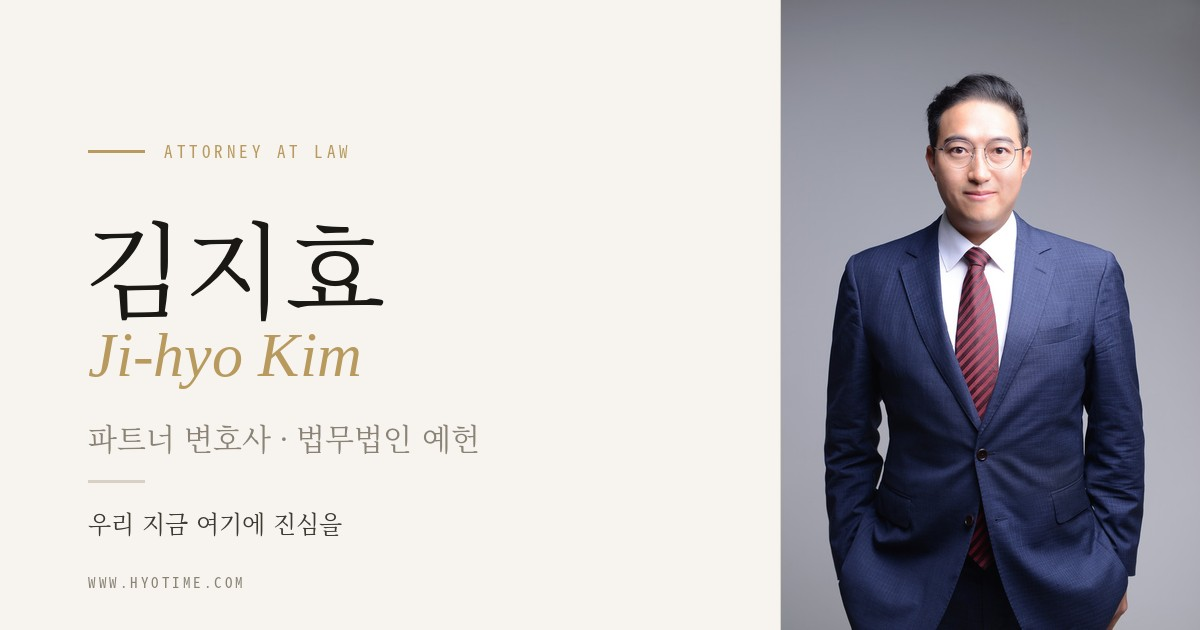
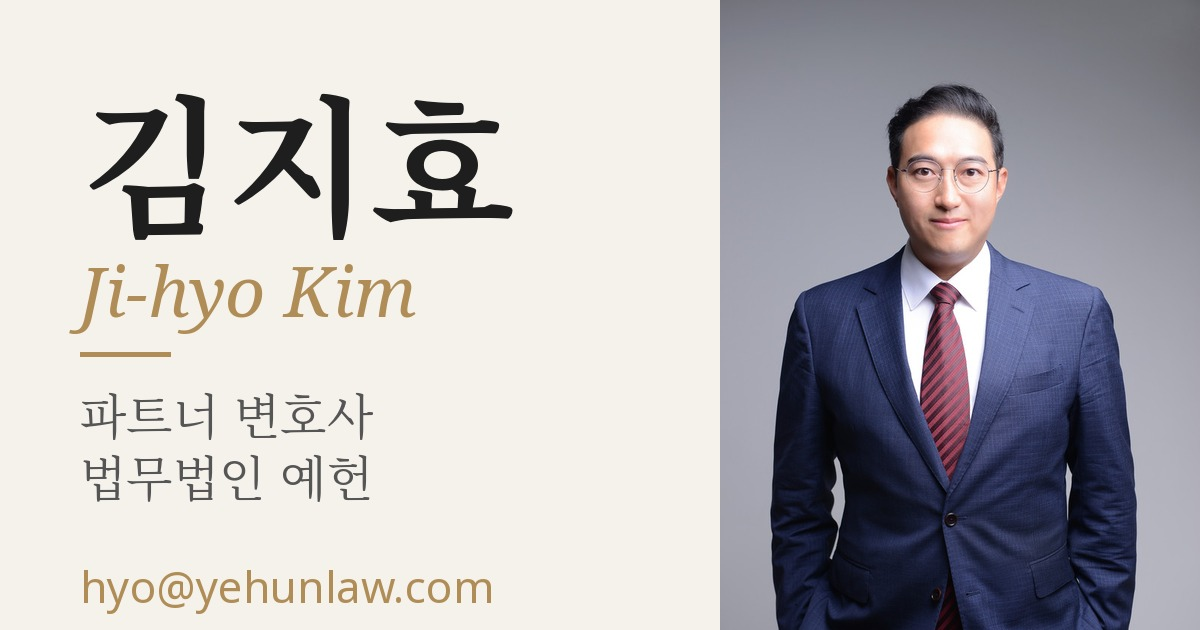
공유 미리보기 이미지를 교체하고 캐시 쿼리를 붙임 (#9)
og-image.jpg를 새 1200x630 JPEG로 바꾸고, og:image와 twitter:image에 ?v=20261120을 붙여 카카오톡 등이 다시 가져가게 한다.

Changed region(s): [[0.5858, 0.0, 0.9558, 1.0], [0.0617, 0.1508, 0.4317, 0.8444], [0.0617, 0.9048, 0.4008, 0.9651]]

diff --git a/index.html b/index.html
@@ -18,7 +18,7 @@
 <meta property="og:title" content="김지효 변호사 | Attorney Kim Ji-hyo">
 <meta property="og:description" content="법무법인 예헌 파트너 변호사. 건설·부동산, 산업안전(중대재해), 인사·노무, 공정거래·하도급, 기업자문·M&A.">
 <meta property="og:url" content="https://www.hyotime.com/">
-<meta property="og:image" content="https://www.hyotime.com/og-image.jpg">
+<meta property="og:image" content="https://www.hyotime.com/og-image.jpg?v=20261120">
 <meta property="og:image:type" content="image/jpeg">
 <meta property="og:image:width" content="1200">
 <meta property="og:image:height" content="630">
@@ -28,7 +28,7 @@
 <meta name="twitter:card" content="summary_large_image">
 <meta name="twitter:title" content="김지효 변호사 | Attorney Kim Ji-hyo">
 <meta name="twitter:description" content="법무법인 예헌 파트너 변호사. 건설·부동산, 산업안전(중대재해), 인사·노무, 공정거래·하도급, 기업자문·M&A.">
-<meta name="twitter:image" content="https://www.hyotime.com/og-image.jpg">
+<meta name="twitter:image" content="https://www.hyotime.com/og-image.jpg?v=20261120">
 <meta name="twitter:image:alt" content="김지효 변호사">
 
 <!-- 아이콘 -->
